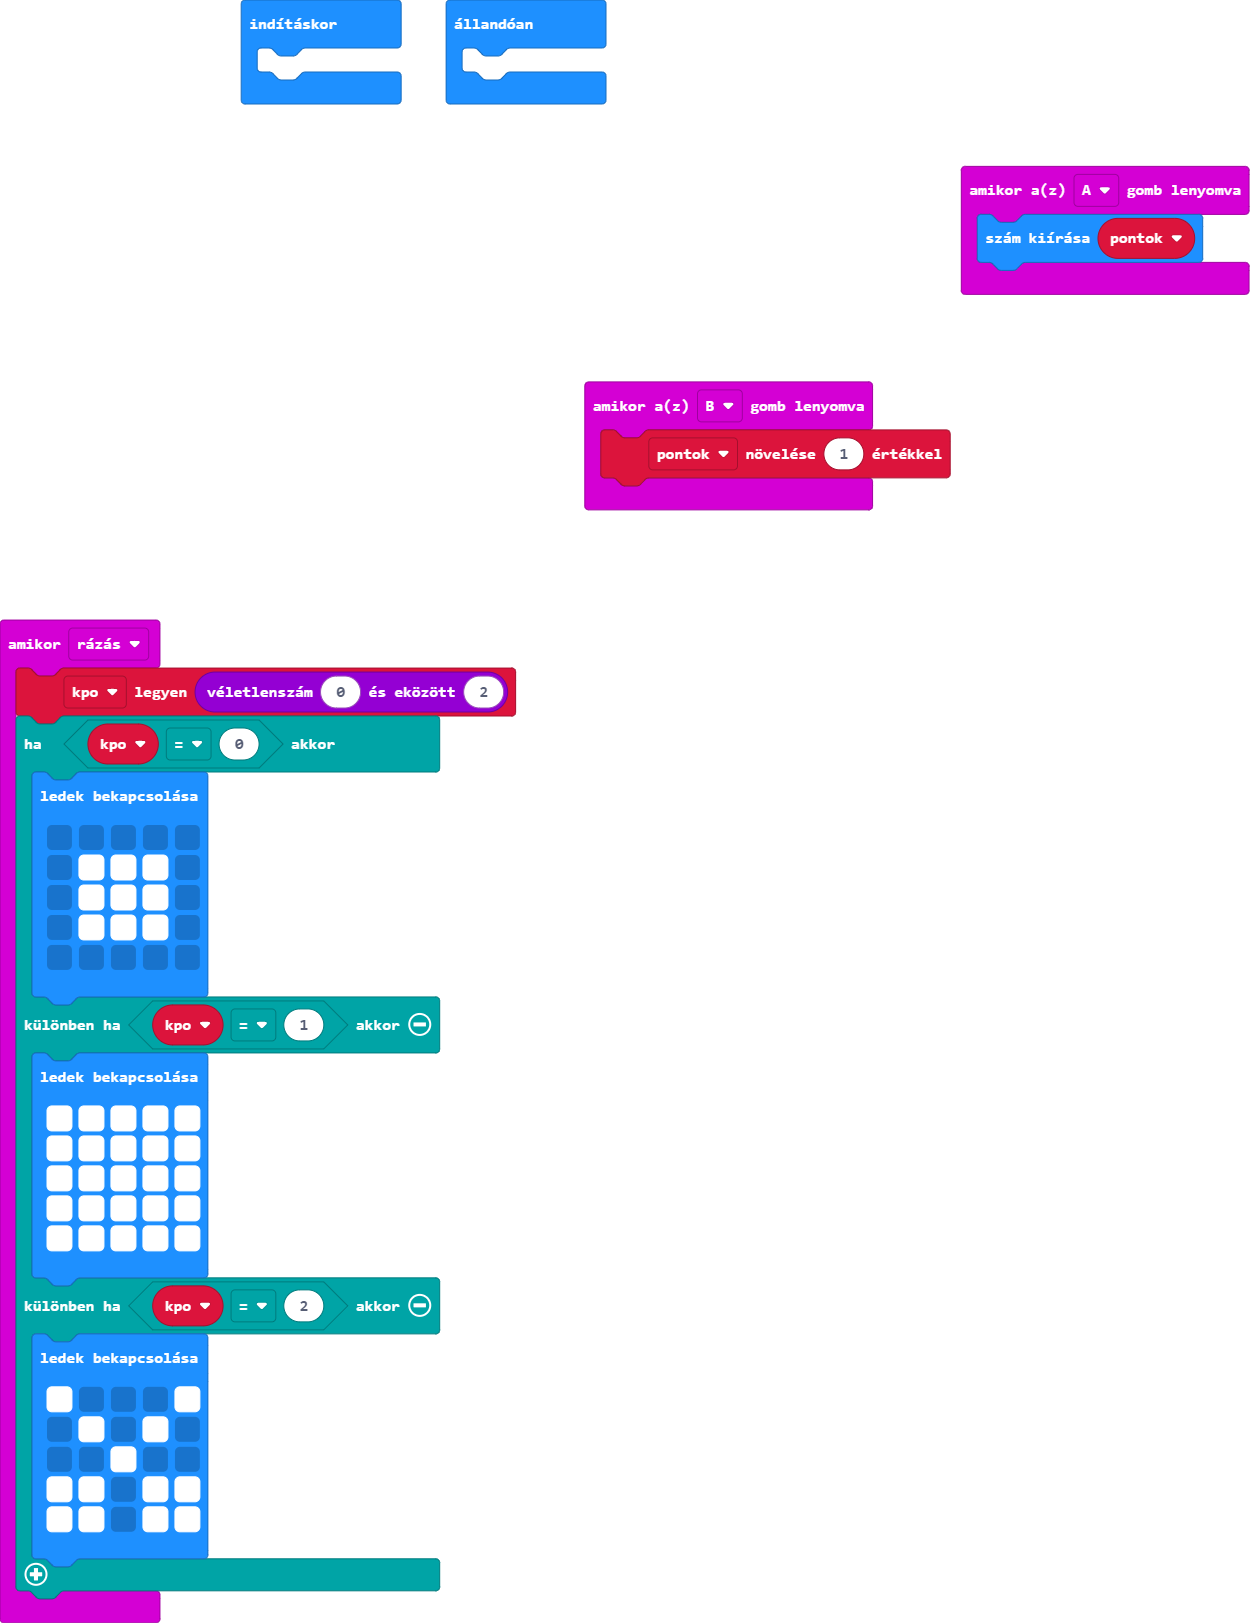
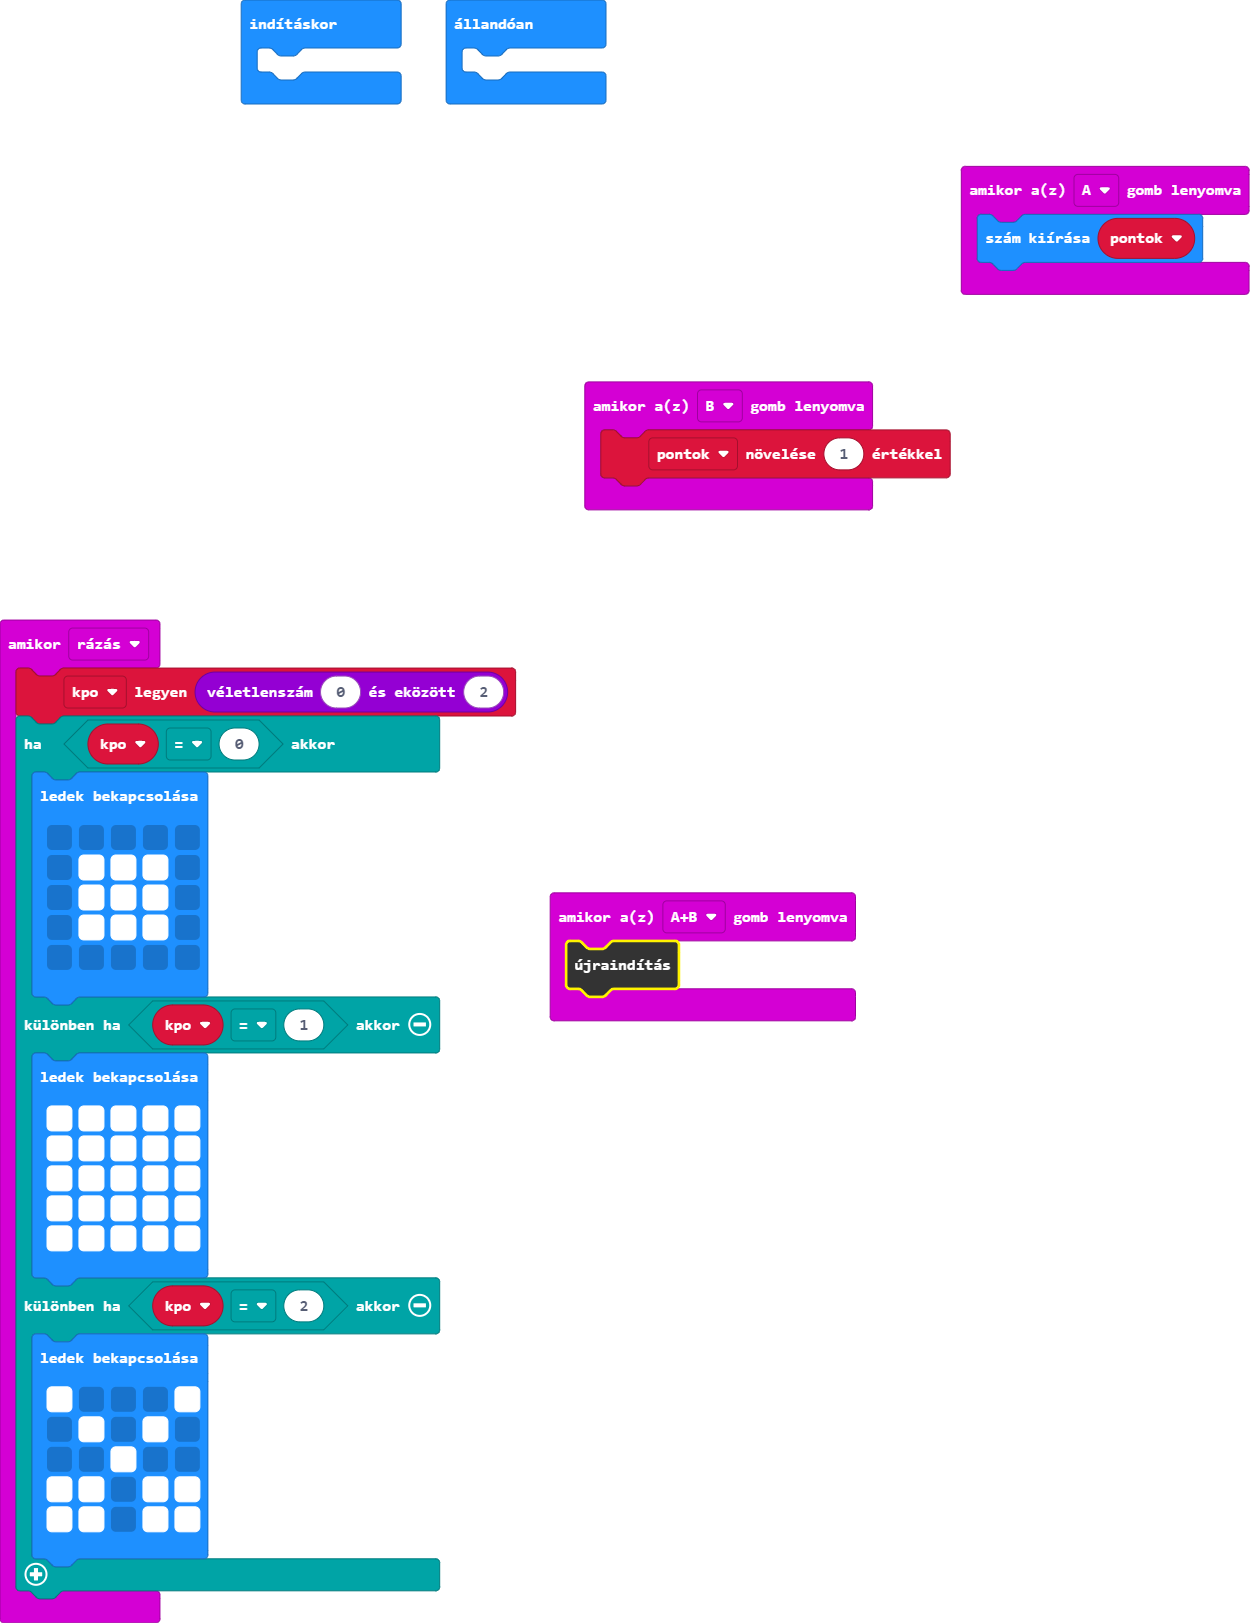
yxc

Changed region(s): [[0.4351, 0.5237, 0.6837, 0.647]]

diff --git a/main.ts b/main.ts
@@ -31,6 +31,9 @@ input.onGesture(Gesture.Shake, function () {
             `)
     }
 })
+input.onButtonPressed(Button.AB, function () {
+    control.reset()
+})
 input.onButtonPressed(Button.B, function () {
     pontok += 1
 })
